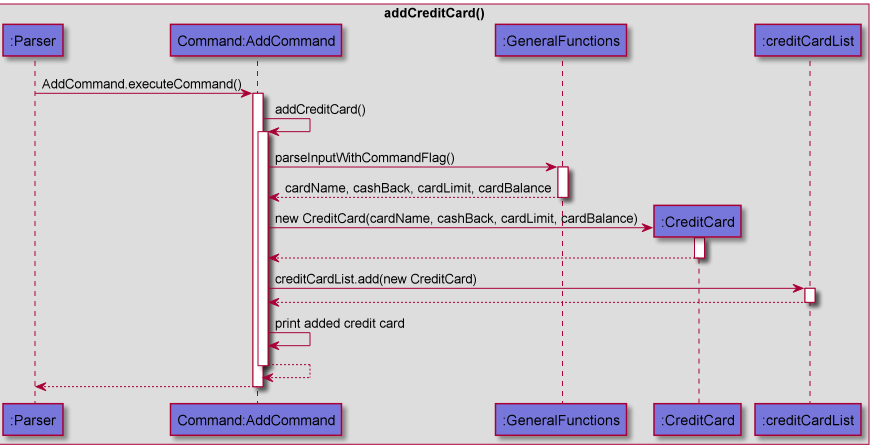
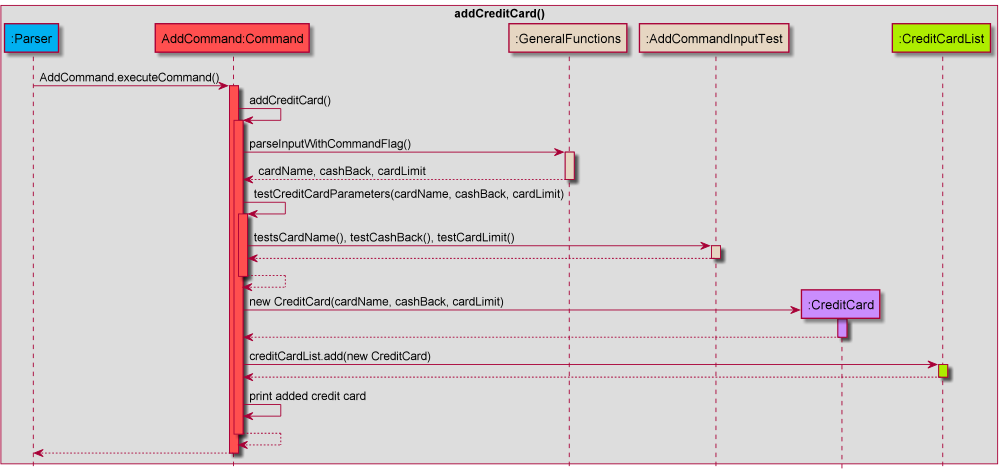
DG edits

Changed region(s): [[0.0, 0.0, 1.0, 1.0]]

diff --git a/src/main/java/seedu/mindmymoney/command/AddCommand.java b/src/main/java/seedu/mindmymoney/command/AddCommand.java
@@ -91,7 +91,7 @@ public class AddCommand extends Command {
      * the balance left.
      *
      * @param cardName Name of credit card to be updated.
-     * @param amount amount of new expenditure.
+     * @param amount   amount of new expenditure.
      * @return The credit card balance left.
      * @throws MindMyMoneyException when the card is not found in user's credit card list.
      */
@@ -114,22 +114,37 @@ public class AddCommand extends Command {
     }
 
     /**
-     * Tests if the input parameters from the user are valid.
+     * Tests if the input parameters of expenditure from the user are valid.
      *
-     * @param paymentMethod The payment method used, either as cash or the credit card.
-     * @param inputCategory The category as indicated by the user.
-     * @param description The description of the expenditure.
+     * @param paymentMethod  The payment method used, either as cash or the credit card.
+     * @param inputCategory  The category as indicated by the user.
+     * @param description    The description of the expenditure.
      * @param amountAsString Price of the expenditure.
-     * @param inputTime Date of when the expenditure was bought.
+     * @param inputTime      Date of when the expenditure was bought.
      * @throws MindMyMoneyException when the parameters are invalid.
      */
     public void testExpenditureParameters(String paymentMethod, String inputCategory, String description,
-                String amountAsString, String inputTime) throws MindMyMoneyException {
+                                          String amountAsString, String inputTime) throws MindMyMoneyException {
         testPaymentMethod(paymentMethod, creditCardList);
         testExpenditureCategory(inputCategory);
         testDescription(description);
         testExpenditureAmount(amountAsString, paymentMethod, creditCardList);
         checkValidDate(inputTime);
+    }
+
+    /**
+     * Tests if the input parameters of credit card from the user are valid.
+     *
+     * @param cardName  The name of the credit card.
+     * @param cashBack  The amount of cashback the card provides.
+     * @param cardLimit The spending limit of the credit card.
+     * @throws MindMyMoneyException when the parameters are invalid.
+     */
+    public void testCreditCardParameters(String cardName, String cashBack, String cardLimit)
+        throws MindMyMoneyException {
+        testCreditCardName(cardName);
+        testCashbackAmount(cashBack);
+        testCreditCardLimit(cardLimit);
     }
 
     /**
@@ -159,12 +174,12 @@ public class AddCommand extends Command {
         expenditureList.add(new Expenditure(paymentMethod, category, description, amountFloat, time));
 
         System.out.println("Successfully added: \n\n"
-                + "Description: " + description + "\n"
-                + "Amount: $" + String.format("%.2f", amountFloat) + "\n"
-                + "Category: " + category + "\n"
-                + "Payment method: " + paymentMethod + "\n"
-                + "Date: " + time + "\n\n"
-                + "into the account\n");
+            + "Description: " + description + "\n"
+            + "Amount: $" + String.format("%.2f", amountFloat) + "\n"
+            + "Category: " + category + "\n"
+            + "Payment method: " + paymentMethod + "\n"
+            + "Date: " + time + "\n\n"
+            + "into the account\n");
 
         if (!paymentMethod.equals("Cash")) {
             float balanceLeft = updateCreditCardTotalExpenditure(paymentMethod, amountFloat);
@@ -206,7 +221,7 @@ public class AddCommand extends Command {
         } else if ((yearInInt % LEAP_YEAR_NUMBER == 0) && month.equals("02") && (dayInInt > 29)) {
             throw new MindMyMoneyException(day + "/" + month + " is not a valid dd/mm in a leap year!");
         } else if ((month.equals("04") || month.equals("06") || month.equals("09") || month.equals("11"))
-                && dayInInt > 30) {
+            && dayInInt > 30) {
             throw new MindMyMoneyException(day + "/" + month + " is not a valid dd/mm in this month!");
         }
     }
@@ -217,26 +232,21 @@ public class AddCommand extends Command {
      * @throws MindMyMoneyException Exception thrown when input is invalid
      */
     public void addCreditCard() throws MindMyMoneyException {
-        //Parse data from input
         final String cardName = parseInputWithCommandFlag(addInput, FLAG_OF_CARD_NAME,
-                FLAG_OF_CASHBACK);
-        testCreditCardName(cardName);
-
+            FLAG_OF_CASHBACK);
         final String cashBack = parseInputWithCommandFlag(addInput, FLAG_OF_CASHBACK,
-                FLAG_OF_CARD_LIMIT);
-        testCashbackAmount(cashBack);
-
+            FLAG_OF_CARD_LIMIT);
         final String cardLimit = parseInputWithCommandFlag(addInput, FLAG_OF_CARD_LIMIT,
-                FLAG_END_VALUE);
-        testCreditCardLimit(cardLimit);
+            FLAG_END_VALUE);
+        testCreditCardParameters(cardName, cashBack, cardLimit);
 
         creditCardList.add(new CreditCard(cardName, Double.parseDouble(cashBack), Float.parseFloat(cardLimit)));
 
         System.out.println("Successfully added: \n\n"
-                + "Credit card: " + cardName + "\n"
-                + "Cash back: " + cashBack + "%\n"
-                + "Card limit: $" + cardLimit + "\n\n"
-                + "into the account");
+            + "Credit card: " + cardName + "\n"
+            + "Cash back: " + cashBack + "%\n"
+            + "Card limit: $" + cardLimit + "\n\n"
+            + "into the account");
         System.out.print(System.lineSeparator());
     }
 
@@ -259,9 +269,9 @@ public class AddCommand extends Command {
             incomeList.add(new Income(amountAsInt, category));
 
             System.out.print("Successfully added: \n\n"
-                    + "Amount: $" + amountAsInt + "\n"
-                    + "Category: " + category + "\n\n"
-                    + "into the account");
+                + "Amount: $" + amountAsInt + "\n"
+                + "Category: " + category + "\n\n"
+                + "into the account");
             System.out.println(System.lineSeparator());
         } catch (NumberFormatException e) {
             throw new MindMyMoneyException("Income must be a whole number!");

diff --git a/docs/DeveloperGuide.md b/docs/DeveloperGuide.md
@@ -195,9 +195,9 @@ Below is an example showing how the AddCommand behaves at each step.
    `MindMyMoney`.
 2. `AddCommand` instantiates `addInput`, `expenditureList`, `creditCardList`, `incomeList`.
 3. The application invokes `AddCommand.executeCommand()` to execute user instruction.
-4. If user input contains credit card flag, the application executes `AddCommand.addCreditCard()`.
-5. Else if user input contains income flag, the application executes `AddCommand.addIncome()`.
-6. Else the application executes `AddCommand.addExpenditure()`.
+4. If user input contains `/e`, the application executes `AddCommand.addExpenditure()`.
+5. Else user input contains `/cc`, the application executes `AddCommand.addCreditCard()`.
+6. Else if user input contains `/i`, the application executes `AddCommand.addIncome()`.
 7. The application then returns to the Parser component.
 
 <br/>
@@ -216,12 +216,12 @@ to the list.
 
 1. During the execution, `AddCommand.addExpenditure()` will parse through user input to obtain the `PAYMENT_METHOD`, `CATEGORY`,
    `DESCRIPTION`, `AMOUNT` and `TIME` fields.
-2. Once all the fields are obtained, `AddCommand.addExpenditure()` will run tests for its respective fields and capitalise the 
-   `PAYMENT_METHOD`, `CATEGORY` input.
-3. The `AddCommand.addExpenditure()` object instantiates a new `Expenditure` object with the aforementioned 5 fields and adds them
+2. Once all the fields are obtained, `AddCommand.addExpenditure()` will run tests for its respective fields.
+3. The `AddCommand.addExpenditure()` object formats the `CATEGORY` and `AMOUNT` fields, and the `PAYMENT_METHOD` if it is cash.
+4. The `AddCommand.addExpenditure()` object instantiates a new `Expenditure` object with the 5 fields and adds them
    into the `ExpenditureList`.
-4. The `AddCommand.addExpenditure()` object prints a list to show the user what it has saved.
-5. The `AddCommand.addExpenditure()` returns to `AddCommand`.
+5. The `AddCommand.addExpenditure()` object prints a list to show the user what it has saved.
+6. The `AddCommand.addExpenditure()` returns to `AddCommand`.
 
 <br/>
 
@@ -236,11 +236,12 @@ Fig 9 - Add Credit Card Command Sequence Diagram
 The sequence diagram above shows the interactions of different classes when adding a credit card to the list.
 
 1. During the execution, `AddCommand.addCreditCard()` will parse through user input to obtain the `CREDIT_CARD_NAME`, `CATEGORY`,
-   `CASH_BACK`, `CARD_LIMIT` and `CARD_BALANCE` fields.
-2. Once all the fields are obtained, `AddCommand.addCreditCard()` object instantiates a new `CreditCard`
-   object with the aforementioned 5 fields and adds them into the `CreditCardList`.
-3. The `AddCommand.addCreditCard()` object prints a list to show the user what it has saved.
-4. The `AddCommand.addCreditCard()` returns to `AddCommand`.
+   `CASH_BACK` and `CARD_LIMIT` fields.
+2. Once all the fields are obtained, `AddCommand.addExpenditure()` will run tests for its respective fields.
+3. The `AddCommand.addCreditCard()` object instantiates a new `CreditCard`
+   object with the aforementioned 3 fields and adds them into the `CreditCardList`.
+4. The `AddCommand.addCreditCard()` object prints a list to show the user what it has saved.
+5. The `AddCommand.addCreditCard()` returns to `AddCommand`.
 
 <br/>
 
@@ -287,7 +288,7 @@ MindMyMoney allow users to view their current list of added expenditures.
 #### Current Implementation
 The sequence diagram below shows the interactions of different subcomponents of the system when listing.  
 
-![list_command_sequence_diagram](images/List_Command_Sequence_Diagram.png)
+![list_command_sequence_diagram](images/List_Command_Sequence_Diagram.png)  
 Fig 13 - List Command Sequence Diagram
 
 #### ListCommand design considerations
@@ -320,10 +321,10 @@ Manage finances containing multiple payment methods faster than a typical mouse/
 
 ### User Stories
 
-|Version| As a ... | I want to ... | So that I can ...|
-|--------|----------|---------------|------------------|
-|v1.0|new user|see usage instructions|refer to them when I forget how to use the application|
-|v2.0|user|find a to-do item by name|locate a to-do without having to go through the entire list|
+| Version | As a ...  | I want to ...             | So that I can ...                                           |
+|---------|-----------|---------------------------|-------------------------------------------------------------|
+| v1.0    | new user  | see usage instructions    | refer to them when I forget how to use the application      |
+| v2.0    | user      | find a to-do item by name | locate a to-do without having to go through the entire list |
 
 ### Non Functional Requirements
 
